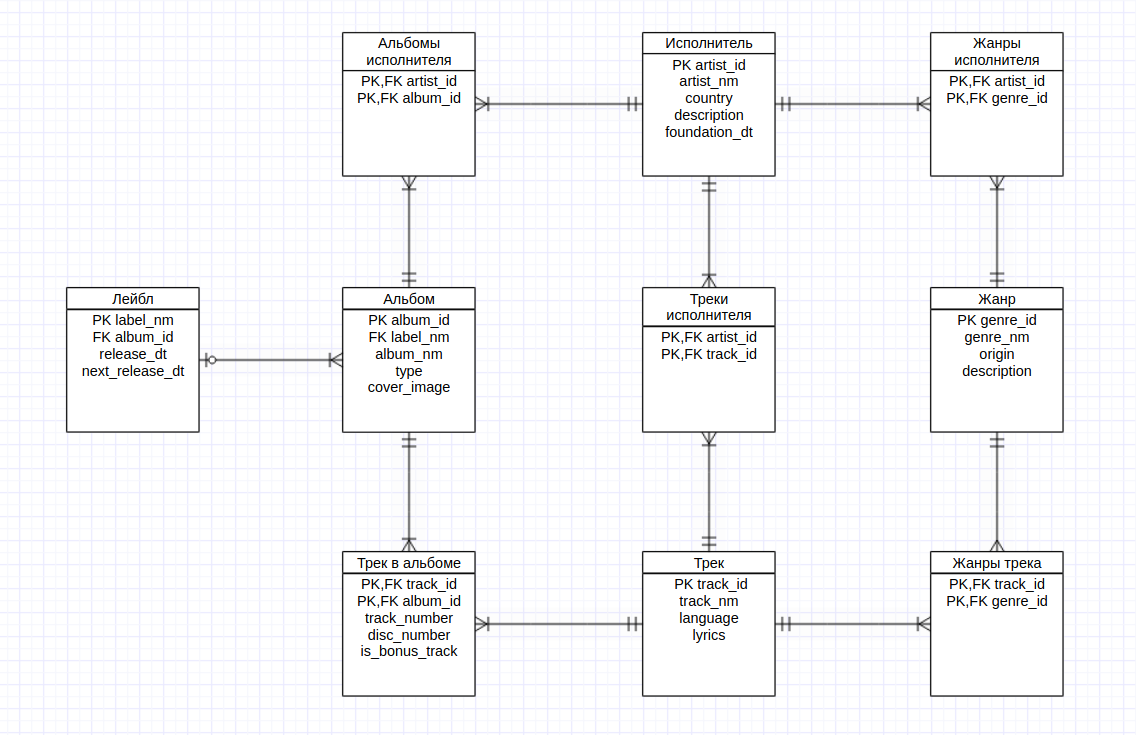
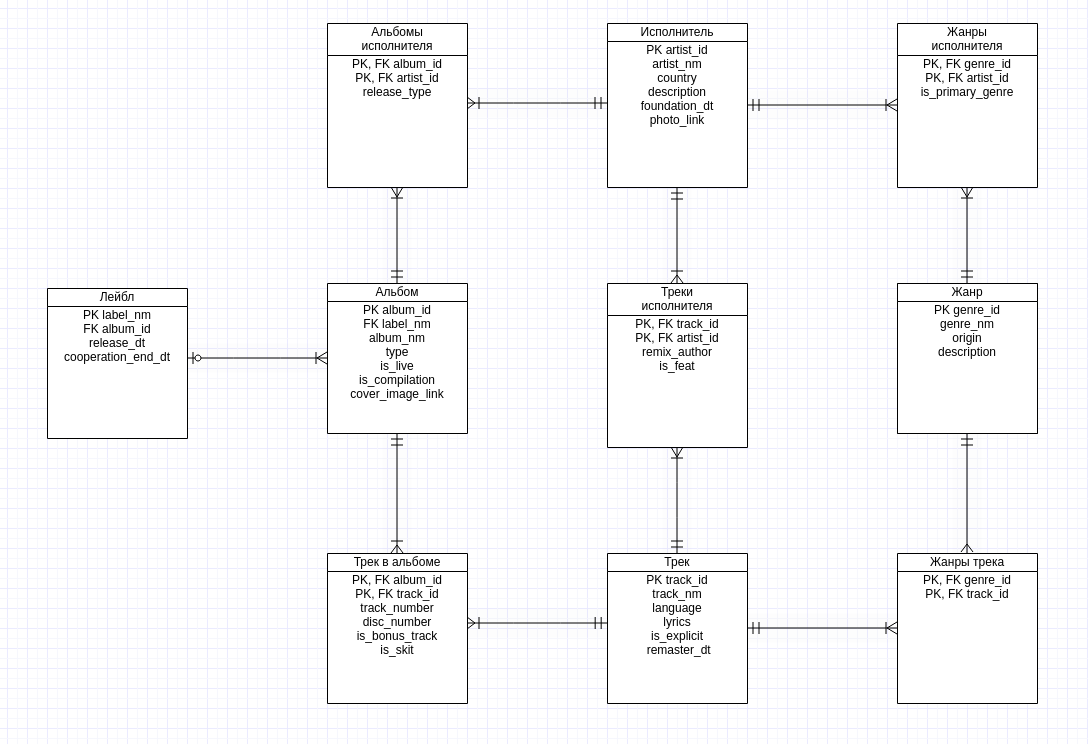
Added more attributes and their description

diff --git a/logical_model/README.md b/logical_model/README.md
@@ -11,4 +11,48 @@
 Первичным ключом в таблицах исходных сущностей являются id. Исключением является лейбл, его первичный ключ - это его название.
 
 
-Таблица лейблов является версионной (SCD 2). Записи этой таблицы имеют вид (имя лейбла, id альбома, дата выхода альбома, дата выхода следующего альбома этого исполнителя).
+Таблица лейблов является версионной (SCD 2). Записи этой таблицы имеют вид (имя лейбла, id альбома, дата выхода альбома, дата окончания сотрудничества исполнителя с лейблом).
+
+# Что означают атрибуты:
+
+**Лейбл**
+
+- Таблица версионная. Каждая запись соответствует сотрудничеству исполнителя и лейбла при выпуске одного альбома.
+
+- release_dt - дата выпуска альбома
+
+- cooperation_end_dt - дата прекращения сотрудничества исполнителя и лейбла
+
+**Альбом**
+
+- type - тип альбома (single, EP, LP)
+
+**Альбомы исполнителя**
+
+- release_type - у многих альбомов есть разные версии (например, Deluxe Edition, или отдельный релиз в определённой стране)
+
+**Трек в альбоме**
+
+- is_bonus_track - является ли трек бонусным (такие обычно есть в Deluxe изданиях альбома)
+
+- is_skit - в некоторых альбомах бывают переходы между песнями (скиты)
+
+**Трек**
+
+- is_explicit - является ли трек нецензурным
+
+- remaster_dt - дата последнего ремастера данного трека. Если ремастеров нет, то NULL
+
+**Треки исполнителя**
+
+- remix_author - если трек является ремиксом, то его автор, иначе NULL
+
+- is_feat - является ли трек фитом
+
+**Жанр**
+
+- origin - направление, к которому относится жанр
+
+**Жанры исполнителя**
+
+- is_primary_genre - является ли жанр основным для исполнителя
